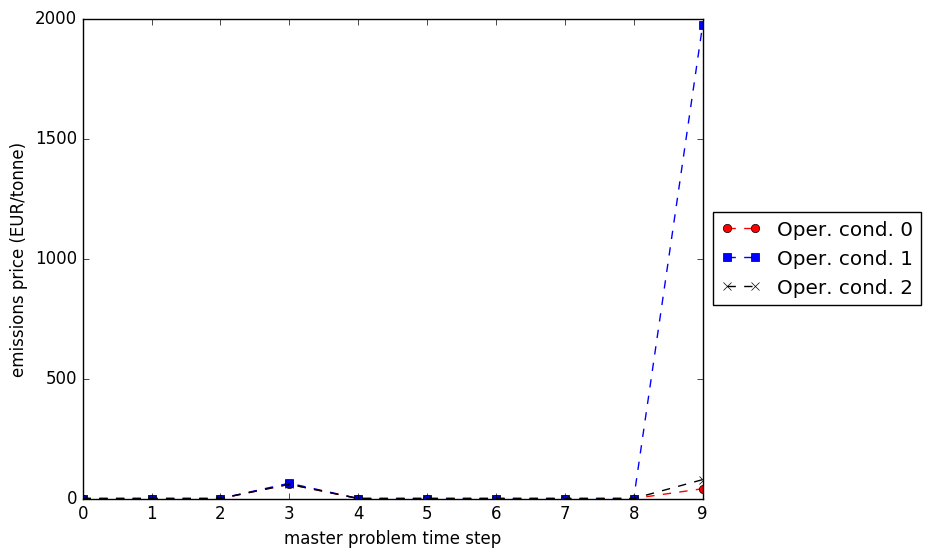
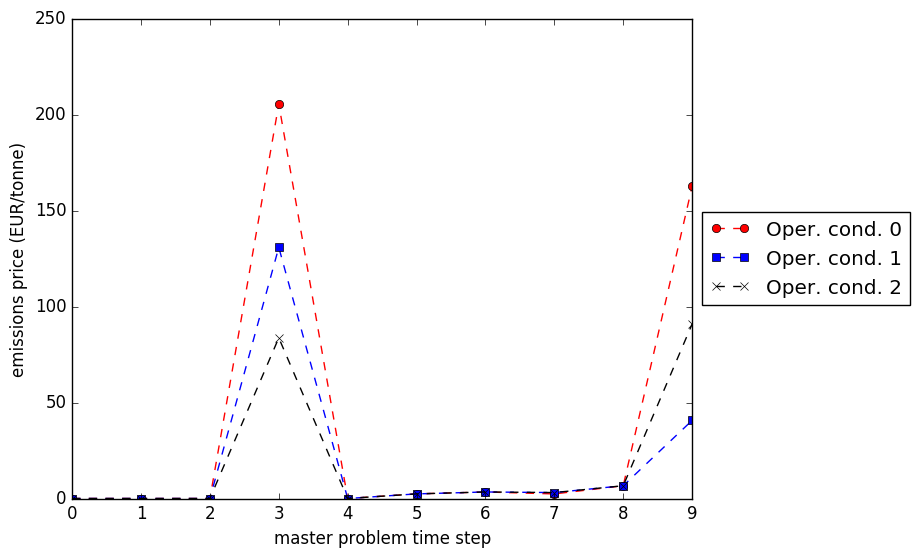
Add investment costs per type

diff --git a/latex/main.tex b/latex/main.tex
@@ -47,6 +47,13 @@ Emission reduction, generation expansion, robust optimization, stochastic progra
 
 \section{Introduction}
 
+% TODO:
+% - update introduction
+% - explain contributions
+% - explain constraints
+% - update case study, results, and analysis
+% - conclusions
+
 % introduction
 Most nations have ratified the Paris agreement that aims at capping the increase in the global average temperature by lowering greenhouse gas (GHG) emissions, for example \cite{Paris_agreement}. To this end, there are nation-level policies that set speficic goals for GHG emission reductions through increasing the share of renewable energy, for example \cite{EU_climate_action}. However, integrating large investments in variable renewable energy sources (vRES) such as wind and solar power to existing power systems is likely to require significant investments in transmission capacity as well as to flexible generation technologies (e.g. hydro, combined cycle gas turbines, CCGT), dispatchable RES (e.g biomass), and storage to guarantee the power system adequacy and security \cite{Zappa}.
 
@@ -340,22 +347,27 @@ The subproblem can be solved directly as a MIQP using solvers such as Gurobi. Al
 
 We study what investments are required to decrease the initial emissions of the Nordic and Baltic electricity system under uncertain generation and transmission parameters and worst-case realization of demand. More specifically, we use the Nordic and Baltic network and its generation, load, and transmission line data from \cite{Virasjoki} as a base.
 
-Our case study has 10 time steps in the master problem ($t$) for making investments. For each master problem time step, we consider 24 time steps in the subproblem ($\tau$). Consequently, the subproblem has 240 time steps in total. We define variable load and wind as well as solar power data so that, for each master problem time step, we sample one day in 2014 and use data from that day. The load values increase each year by a factor of $D = 1.03$. Hydro power data such as initial storage levels ($S_{o, \tau, u}^0$) and inflows ($I_{o, \tau, u}$) have weekly granularity so these data are taken from the week that each sampled day belongs to. In addition, we modify the system by introducing 3 equally weighted ($W_o = 1/3$) operating conditions by sampling uniform noise from $\textrm{U}(-100 \textrm{ MW}, 100 \textrm{ MW})$ to all generation ($G^{max}_{o, \tau, u}$) and transmission capacities ($F^{max}_{o, \tau, \ell}$ and $F^{min}_{o, \tau, \ell}$).
+We augment the base system by having 10 time steps in the master problem ($t$) for making investments. For each master problem time step, we consider 24 time steps in the subproblem ($\tau$). Consequently, the subproblem has 240 time steps in total. We define variable load and wind as well as solar power data so that, for each master problem time step, we sample one day and use its hourly data for 24 consecutive subproblem time steps. We assume that load values increase by a factor of $D = 1.03$ at each master problem time step. Hydro power data such as initial storage levels ($S_{o, \tau, u}^0$) and inflows ($I_{o, \tau, u}$) have weekly granularity so we take the weekly value corresponding to each sampled day. In addition, we modify the system by introducing 3 equally weighted ($W_o = 1/3$) operating conditions by sampling uniform noise from $\textrm{U}(-100 \textrm{ MW}, 100 \textrm{ MW})$ to all generation ($G^{max}_{o, \tau, u}$) and transmission capacities ($F^{max}_{o, \tau, \ell}$ and $F^{min}_{o, \tau, \ell}$).
 
-A maximum 20000 MW of gas, CCGT, oil, wind and solar power can be built at each node. In addition, there is a candidate DC transmission line between each neighboring node pair with 2000 MW of capacity to both directions. The investment parameters are shown in Table \ref{table_investment_parameters}. The upper bound for emissions for each master problem time step decreases linearly from $E_{0} = 100000 \textrm{ tonne}$ to $E_{9} = 20000 \textrm{ tonne}$.
+Gas, CCGT, oil, biomass, wind and solar power can be built at each (non-dummy) node. Each candidate unit has a maximum capacity ($G^{inv,max}_u$) of 10000 MW except for biomass units which we limit to 1000 MW due to limited fuel supply. In addition, neighboring (non-dummy) node pairs can be connected with two candidate DC transmission lines with both having 1000 MW of capacity to both directions. The investment cost parameters are shown in Table \ref{table_investment_parameters}. The upper bound for emissions for each master problem time step decreases linearly from $E_{0} = 100000 \textrm{ tonne}$ to $E_{9} = 20000 \textrm{ tonne}$.
 
 The uncertainty budget in the subproblem ($\Lambda^w$) is 2 meaning that the model can change load in maximum of 2 nodes. Each change the model makes increases load in a node for all operating conditions and subproblem time steps by $\hat{D}_{\tau, n} = 100 \textrm{ MWh}$. The linearization variables $\Lambda^{min}$ and $\Lambda^{max}$ are -1000 €/MWh and 1000 €/MWh, respectively.
 
 \begin{table}[htpb]
 \centering
 \begin{tabular}{l| c} \hline
-Parameter 				& Value  \\ \hline
-$P$ 					& $\frac{1}{365}$ \\
-$R$						& 1.1		\\
-$C^x_{t, u}$ (€/MW)		& 10^6    \\
-$C^x_{t, \ell}$ (€)		& 10^8	\\
+Parameter 					& Value  \\ \hline
+$P$ 						& $\frac{1}{365}$ \\
+$R$							& 1.1		\\
+$C^x_{t, u}$ Gas (€/MW)		& 0.8 \cdot 10^6    \\
+$C^x_{t, u}$ CCGT (€/MW)	& 1.0 \cdot 10^6    \\
+$C^x_{t, u}$ Oil (€/MW)		& 0.8 \cdot 10^6    \\
+$C^x_{t, u}$ Biomass (€/MW)	& 3.9 \cdot 10^6    \\
+$C^x_{t, u}$ Wind (€/MW)	& 1.6 \cdot 10^6    \\
+$C^x_{t, u}$ Solar (€/MW)	& 1.8 \cdot 10^6    \\
+$C^x_{t, \ell}$ (€)			& 2.0 \cdot 10^8	\\
 \end{tabular}
-\caption{Investment parameters in the case study}
+\caption{Investment cost parameters in the case study}
 \label{table_investment_parameters}
 \end{table}
 
@@ -365,8 +377,8 @@ We solve this case study using the Algorithm \ref{alg_algorithm}. The results ar
 \centering
 \begin{tabular}{c c| c c c} \hline
 Master problem 			& Subproblem & Objective value (€) 	& Solution time (s) 	& Iterations \\ \hline
-Benders					& MIQP 				& 85719742.5196 		& 1859.21				& 3				 \\
-MILP					& MIQP 				& 85719742.5196 		& 716.54				& 3				 \\
+Benders					& MIQP 				& 98047281.846 		& 2704.97				& 3				 \\
+MILP					& MIQP 				& 98047281.846 		& 3975.56				& 3				 \\
 \end{tabular}
 \caption{}
 \label{table_results}

diff --git a/master_problem_benders_dc.py b/master_problem_benders_dc.py
@@ -61,8 +61,6 @@ from helpers import (
     compute_objective_gap,
     is_year_first_hour,
     is_year_last_hour,
-    get_initial_transmission_investments,
-    get_investment_and_availability_decisions,
 )
 
 
@@ -84,6 +82,23 @@ def get_transmission_investment_cost(yhat):
         sum(sum(C_y[t, l] * yhat[t, l] for l in candidate_lines) for t in years)
         / annualizer
     )
+
+
+def get_initial_transmission_investments():
+    # Get initial transmission line investments.
+    initial_yhat = dict()
+    initial_y = dict()
+
+    for t in years:
+        for l in candidate_lines:
+            if t == 0:
+                initial_yhat[t, l] = 1.0
+            else:
+                initial_yhat[t, l] = 0.0
+
+            initial_y[t, l] = 1.0
+
+    return initial_yhat, initial_y
 
 
 def add_primal_variables(sp, iteration):
@@ -714,6 +729,52 @@ def update_slave(updatable_constrs, current_iteration, x, yhat, y):
                     mu_bar_constrs[o, t, l, v].RHS = (
                         line_built(y, t, l) * F_max[o, t, l]
                     )
+
+
+def get_investment_and_availability_decisions(initial=False, many_solutions=False):
+    # Read current investments to generation and transmission and whether the units and lines are
+    # operational at some time point.
+    current_xhat = dict()
+    current_yhat = dict()
+
+    current_x = dict()
+    current_y = dict()
+
+    initial_transmission_investment = 1.0
+
+    for t in years:
+        for u in candidate_units:
+            unit_type = unit_to_generation_type[u]
+            initial_generation_investment = maximum_candidate_unit_capacity_by_type[unit_type]
+
+            if initial:
+                if t == 0:
+                    current_xhat[t, u] = initial_generation_investment
+                else:
+                    current_xhat[t, u] = 0.0
+
+                current_x[t, u] = initial_generation_investment
+            else:
+                current_xhat[t, u] = xhat[t, u].x
+                current_x[t, u] = x[t, u].x
+
+        for l in candidate_lines:
+            if initial:
+                if t == 0:
+                    current_yhat[t, l] = initial_transmission_investment
+                else:
+                    current_yhat[t, l] = 0.0
+
+                current_y[t, l] = initial_transmission_investment
+            else:
+                if many_solutions:
+                    current_yhat[t, l] = float(int(yhat[t, l].Xn))
+                    current_y[t, l] = float(int(y[t, l].Xn))
+                else:
+                    current_yhat[t, l] = float(int(yhat[t, l].x))
+                    current_y[t, l] = float(int(y[t, l].x))
+
+    return current_xhat, current_yhat, current_x, current_y
 
 
 def get_emissions(g):

diff --git a/helpers.py b/helpers.py
@@ -21,8 +21,6 @@ from common_data import (
     wind_unit_idx,
     pv_unit_idx,
     unit_to_generation_type,
-    maximum_candidate_unit_capacity_by_type,
-    unit_to_generation_type,
 )
 
 
@@ -146,69 +144,6 @@ def is_year_last_hour(h):
     remainder = (h + 1) % num_hours_per_year
 
     return remainder == 0
-
-
-def get_initial_transmission_investments():
-    # Get initial transmission line investments.
-    initial_yhat = dict()
-    initial_y = dict()
-
-    for t in years:
-        for l in candidate_lines:
-            if t == 0:
-                initial_yhat[t, l] = 1.0
-            else:
-                initial_yhat[t, l] = 0.0
-
-            initial_y[t, l] = 1.0
-
-    return initial_yhat, initial_y
-
-
-def get_investment_and_availability_decisions(initial=False, many_solutions=False):
-    # Read current investments to generation and transmission and whether the units and lines are
-    # operational at some time point.
-    current_xhat = dict()
-    current_yhat = dict()
-
-    current_x = dict()
-    current_y = dict()
-
-    initial_transmission_investment = 1.0
-
-    for t in years:
-        for u in candidate_units:
-            unit_type = unit_to_generation_type[u]
-            initial_generation_investment = maximum_candidate_unit_capacity_by_type[unit_type]
-
-            if initial:
-                if t == 0:
-                    current_xhat[t, u] = initial_generation_investment
-                else:
-                    current_xhat[t, u] = 0.0
-
-                current_x[t, u] = initial_generation_investment
-            else:
-                current_xhat[t, u] = xhat[t, u].x
-                current_x[t, u] = x[t, u].x
-
-        for l in candidate_lines:
-            if initial:
-                if t == 0:
-                    current_yhat[t, l] = initial_transmission_investment
-                else:
-                    current_yhat[t, l] = 0.0
-
-                current_y[t, l] = initial_transmission_investment
-            else:
-                if many_solutions:
-                    current_yhat[t, l] = float(int(yhat[t, l].Xn))
-                    current_y[t, l] = float(int(y[t, l].Xn))
-                else:
-                    current_yhat[t, l] = float(int(yhat[t, l].x))
-                    current_y[t, l] = float(int(y[t, l].x))
-
-    return current_xhat, current_yhat, current_x, current_y
 
 
 def concatenate_to_uncertain_variables_array(current_d, new_d):

diff --git a/common_data.py b/common_data.py
@@ -218,12 +218,13 @@ for u in existing_units:
 # 15: biomass-e
 # 16: waste-e
 # 17: peat-e
+# See also: https://www.ipcc-nggip.iges.or.jp/public/2006gl/pdf/2_Volume2/V2_2_Ch2_Stationary_Combustion.pdf
 generation_type_to_emissions = {
     0: 0.34 / 0.41,
     1: 0.2 / 0.4,
     2: 0.2 / 0.54,
     3: 0.28 / 0.39,
-    4: 0.0 / 0.35,
+    4: 0.0 / 0.35,  # Biomass not in ETS, debated. First value is estimated to be 0.2 - 0.3.
     5: 0.39 / 0.37,
     6: 0.0 / 0.33,
     7: 0.0 / 0.85,
@@ -260,10 +261,10 @@ unit_idx = len(existing_units)
 
 generate_candidate_units = True
 maximum_candidate_unit_capacity_by_type = {
-    1: 1000.0,
-    2: 1000.0,
-    3: 1000.0,
-    4: 1000.0,
+    1: 10000.0,
+    2: 10000.0,
+    3: 10000.0,
+    4: 1000.0,  # Biomass potential.
     8: 10000.0,
     9: 10000.0,
 }
@@ -608,10 +609,10 @@ assert num_existing_lines == len(incidence) == len(F_max[0]) == len(F_min[0])
 # Generate candidate lines between each pair of real nodes.
 line_idx = len(existing_lines)
 candidate_lines = []
-candidate_line_capacity = 2000.0
+candidate_line_capacity = 1000.0
 generate_candidate_lines = True
 
-num_build_options = 1
+num_build_options = 2
 
 # 0: dk1
 # 1: dk2
@@ -687,14 +688,34 @@ weights = np.ones(num_scenarios) / float(num_scenarios)
 discount_factor = 1.10
 
 # Cost per megawatt.
+# 0: coal
+# 1: gas
+# 2: ccgt
+# 3: oil
+# 4: biomass
+# 5: oil shale
+# 6: nuclear
+# 7: hydro
+# 8: wind
+# 9: pv
+# See also: https://www.eia.gov/outlooks/aeo/assumptions/pdf/table_8.2.pdf
+cost_per_type = {
+    1: 0.8,
+    2: 1.0,
+    3: 0.8,
+    4: 3.9,
+    8: 1.6,
+    9: 1.8,
+}   # In millions.
+
 C_x = {
-    (year, unit): 1e6 * discount_factor ** (-year)
+    (year, unit): 1e6 * cost_per_type[unit_to_generation_type[unit]] * discount_factor ** (-year)
     for year in years
     for unit in candidate_units
 }
 # Cost per project.
 C_y = {
-    (year, line): 1e8 * discount_factor ** (-year)
+    (year, line): 2.0e8 * discount_factor ** (-year)
     for year in years
     for line in candidate_lines
 }

diff --git a/master_problem_dc.py b/master_problem_dc.py
@@ -61,7 +61,6 @@ from helpers import (
     get_maximum_ramp,
     is_year_first_hour,
     is_year_last_hour,
-    get_investment_and_availability_decisions,
 )
 
 
@@ -353,6 +352,52 @@ def augment_master_problem(current_iteration, d):
     )
 
     return g, s
+
+
+def get_investment_and_availability_decisions(initial=False, many_solutions=False):
+    # Read current investments to generation and transmission and whether the units and lines are
+    # operational at some time point.
+    current_xhat = dict()
+    current_yhat = dict()
+
+    current_x = dict()
+    current_y = dict()
+
+    initial_transmission_investment = 1.0
+
+    for t in years:
+        for u in candidate_units:
+            unit_type = unit_to_generation_type[u]
+            initial_generation_investment = maximum_candidate_unit_capacity_by_type[unit_type]
+
+            if initial:
+                if t == 0:
+                    current_xhat[t, u] = initial_generation_investment
+                else:
+                    current_xhat[t, u] = 0.0
+
+                current_x[t, u] = initial_generation_investment
+            else:
+                current_xhat[t, u] = xhat[t, u].x
+                current_x[t, u] = x[t, u].x
+
+        for l in candidate_lines:
+            if initial:
+                if t == 0:
+                    current_yhat[t, l] = initial_transmission_investment
+                else:
+                    current_yhat[t, l] = 0.0
+
+                current_y[t, l] = initial_transmission_investment
+            else:
+                if many_solutions:
+                    current_yhat[t, l] = float(int(yhat[t, l].Xn))
+                    current_y[t, l] = float(int(y[t, l].Xn))
+                else:
+                    current_yhat[t, l] = float(int(yhat[t, l].x))
+                    current_y[t, l] = float(int(y[t, l].x))
+
+    return current_xhat, current_yhat, current_x, current_y
 
 
 def get_emissions(g):

diff --git a/robust.py b/robust.py
@@ -33,7 +33,6 @@ from helpers import (
     Timer,
     get_maximum_ramp,
     MyLogger,
-    get_investment_and_availability_decisions,
 )
 from plotting import create_investment_plots, create_emission_plots
 
@@ -84,12 +83,14 @@ def run_robust_optimization(master_problem_algorithm, subproblem_algorithm):
     if master_problem_algorithm == "benders_dc":
         from master_problem_benders_dc import (
             solve_master_problem,
+            get_investment_and_availability_decisions,
             get_investment_cost,
             get_emissions,
         )
     elif master_problem_algorithm == "milp_dc":
         from master_problem_dc import (
             solve_master_problem,
+            get_investment_and_availability_decisions,
             get_investment_cost,
             get_emissions,
         )
